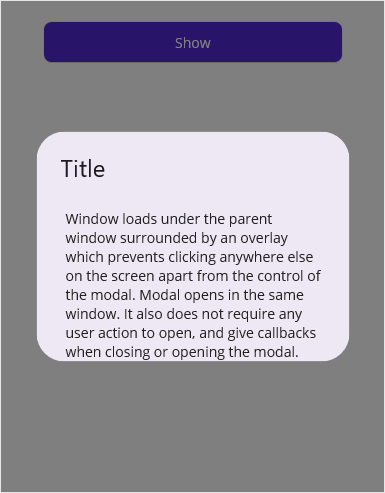
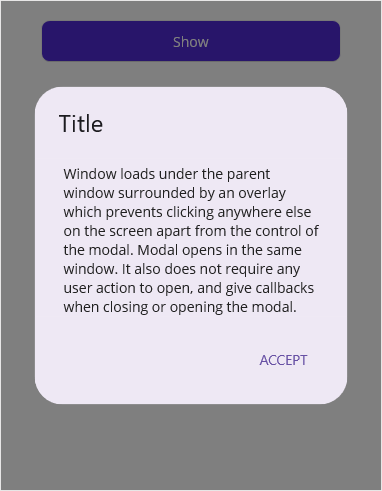
MAUI-5183: Addressed review correction.

diff --git a/MAUI/Popup/popup-size.md b/MAUI/Popup/popup-size.md
@@ -190,7 +190,7 @@ In the following code snippet the Popup is auto-sized in height based on the con
               xmlns:popup="clr-namespace:Syncfusion.Maui.Popup;assembly=Syncfusion.Maui.Popup">
     <ContentPage.Content>
         <StackLayout Padding="20">
-            <Button x:Name="show" Text="Show" WidthRequest="300" Clicked="show_Clicked"/>
+            <Button x:Name="show" Text="Show" WidthRequest="300" ShowFooter="True" Clicked="show_Clicked"/>
             <popup:SfPopup x:Name="popup" 
             AutoSizeMode="Height"
             >
